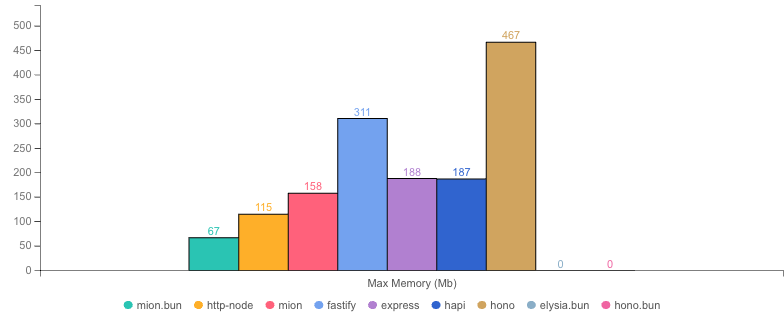
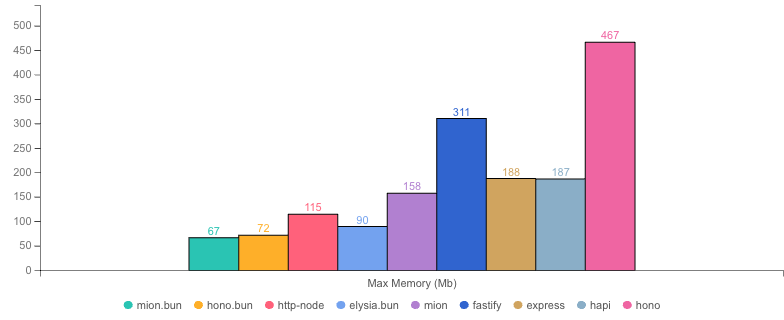
fir running elysia and hono bun

Changed region(s): [[0.3061, 0.0938, 0.8265, 0.8438], [0.2755, 0.9375, 0.8571, 0.9688]]

diff --git a/benchmarks/elysia.bun.js b/benchmarks/elysia.bun.js
@@ -1,6 +1,6 @@
 "use strict";
 
-const { initHttpBun } = require("../_compiled-apps/apps/src/elysiaAppBun");
+const { initHttpBun } = require("../apps/src/elysiaAppBun.ts");
 
-// Elysia Bun server - uses pre-compiled TypeScript for consistent benchmarking
+// Elysia Bun server - Bun runs TypeScript natively
 initHttpBun({ port: 3000 });

diff --git a/benchmarks/hono.bun.js b/benchmarks/hono.bun.js
@@ -1,6 +1,6 @@
 "use strict";
 
-const { initHttpBun } = require("../_compiled-apps/apps/src/honoAppBun");
+const { initHttpBun } = require("../apps/src/honoAppBun.ts");
 
-// Hono Bun server - uses pre-compiled TypeScript for consistent benchmarking
+// Hono Bun server - Bun runs TypeScript natively
 initHttpBun({ port: 3000 });

diff --git a/SIMPLE-USER.md b/SIMPLE-USER.md
@@ -75,7 +75,7 @@ This benchmark is designed to measure framework performance with minimal validat
 
 * __Machine:__ darwin arm64 | 12 vCPUs | 16.0GB Mem
 * __Node:__ `v24.13.0`
-* __Run:__ Thu Feb 26 2026 23:55:16 GMT+0000 (Greenwich Mean Time)
+* __Run:__ Fri Feb 27 2026 00:35:15 GMT+0000 (Greenwich Mean Time)
 * __Method:__ `autocannon -c 100 -d 4.04 -p 10 localhost:3000` (two rounds; one to warm-up, one to measure)
 
 #### Req (R/s) 
@@ -111,11 +111,11 @@ This benchmark is designed to measure framework performance with minimal validat
 |              | Version   | Router | Req (R/s)   | Latency (ms) | Output (Mb/s) | Max Memory (Mb) | Max Cpu (%) | Validation | Description                                                |
 | :--          | --:       | --:    | :-:         | --:          | --:           | --:             | --:         | :-:        | :--                                                        |
 | **mion.bun** | **0.6.2** | **✓**  | **74368.0** | **13.01**    | **18.15**     | **67**          | **99**      | **✓**      | **mion using bun, automatic validation and serialization** |
+| hono.bun     | 3.12.6    | ✓      | 72096.0     | 13.48        | 13.81         | 72              | 95          | ✓          | hono bun server with Zod validation                        |
 | http-node    | 16.18.0   | ✗      | 71296.0     | 13.51        | 17.88         | 115             | 111         | ✓          | bare node http server with Zod validation                  |
+| elysia.bun   | 1.0.0     | ✓      | 70672.0     | 13.74        | 13.54         | 90              | 94          | ✓          | Elysia framework with TypeBox validation                   |
 | **mion**     | **0.6.2** | **✓**  | **63344.0** | **15.28**    | **18.29**     | **158**         | **110**     | **✓**      | **Automatic validation and serialization out of the box**  |
 | fastify      | 5.7.4     | ✓      | 51776.0     | 18.77        | 13.03         | 311             | 133         | ✓          | Fastify with native JSON Schema validation                 |
 | express      | 5.2.1     | ✓      | 44640.0     | 21.84        | 11.19         | 188             | 116         | ✓          | Express with Zod validation                                |
 | hapi         | 21.4.4    | ✓      | 40840.0     | 23.94        | 10.24         | 187             | 113         | ✓          | Hapi with Zod validation                                   |
 | hono         | 3.12.6    | ✓      | 33330.0     | 29.41        | 7.88          | 467             | 124         | ✓          | hono node server with Zod validation                       |
-| elysia.bun   | 1.0.0     | ✓      | N/A         | N/A          | N/A           | 0               | 0           | ✓          | Elysia framework with TypeBox validation                   |
-| hono.bun     | 3.12.6    | ✓      | N/A         | N/A          | N/A           | 0               | 0           | ✓          | hono bun server with Zod validation                        |
